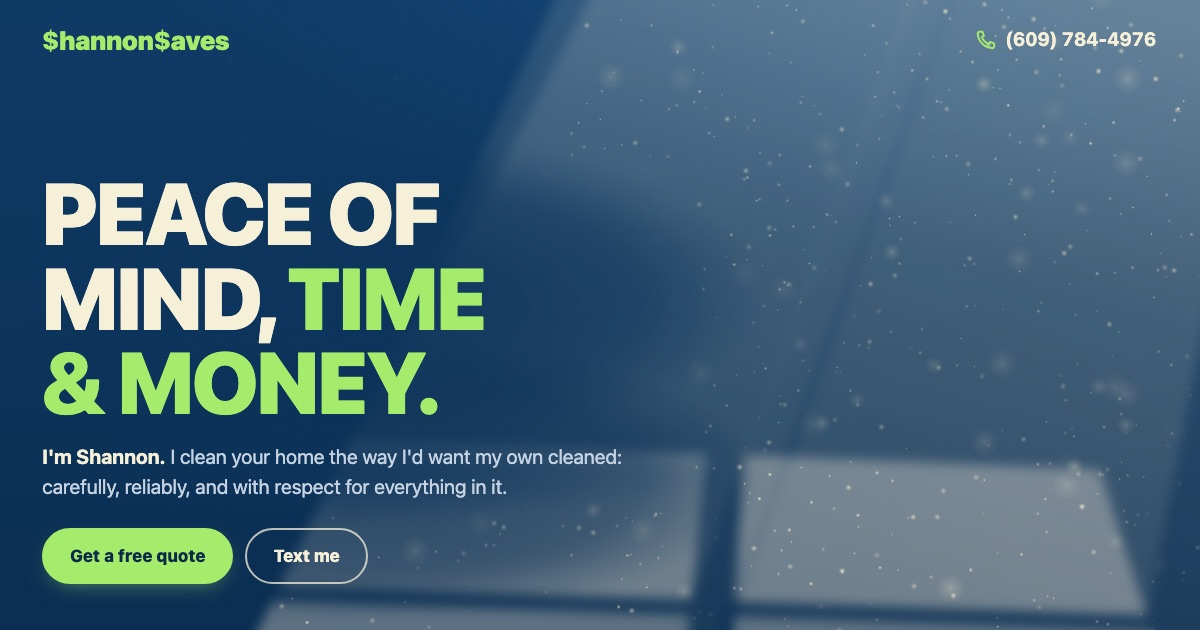
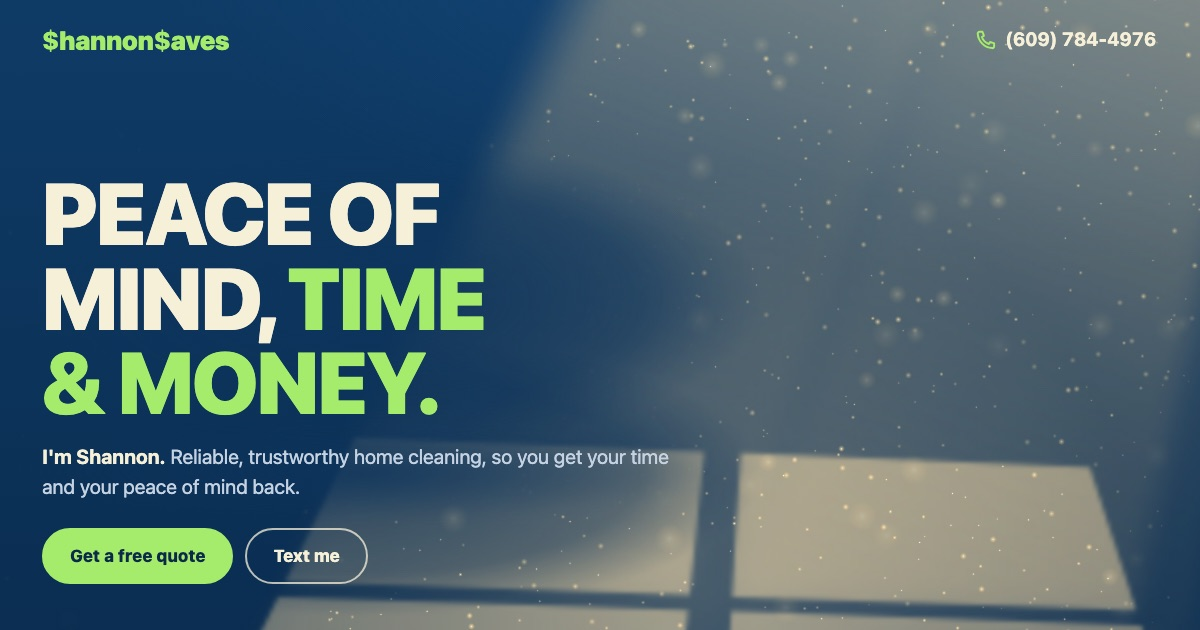
Warm the sunlight, keep light off text, tighten copy, two-column desktop quote
Claude-Session: https://claude.ai/code/session_01KdEZpRZJ6UdA7YLzZHcZCQ

diff --git a/index.html b/index.html
@@ -67,6 +67,7 @@ p { margin: 0; text-wrap: pretty; }
 .mark {
   font-weight: 900; font-size: 22px; letter-spacing: -.01em; color: var(--lime);
   text-decoration: none; white-space: nowrap; line-height: 1;
+  display: inline-flex; align-items: center; min-height: 44px;
 }
 .mark .d { font-weight: 800; }
 .tel {
@@ -80,10 +81,11 @@ p { margin: 0; text-wrap: pretty; }
 
 /* ---------- Rooms (navy sections with the sunbeam) ---------- */
 .room {
-  position: relative; overflow: hidden; color: var(--cream); background-color: var(--navy);
+  position: relative; overflow: hidden; color: var(--cream);
   background:
     radial-gradient(120% 80% at 85% -10%, #164a7c 0%, rgba(22,74,124,0) 60%),
     linear-gradient(180deg, var(--navy) 0%, var(--navy-deep) 100%);
+  background-color: var(--navy);
 }
 /* static stand-in for the beam until the canvas paints */
 .room::before {
@@ -93,7 +95,7 @@ p { margin: 0; text-wrap: pretty; }
 }
 .room.lit::before { opacity: 0; }
 .room canvas { position: absolute; inset: 0; width: 100%; height: 100%; pointer-events: none; }
-.room canvas.beam { filter: blur(5px); transform: scale(1.04); }
+.room canvas.beam { filter: blur(1.5px); transform: scale(1.02); }
 .room > .wrap { position: relative; z-index: 2; }
 
 /* ---------- Hero ---------- */
@@ -126,7 +128,7 @@ p { margin: 0; text-wrap: pretty; }
   -webkit-tap-highlight-color: transparent;
 }
 .btn:active { transform: translateY(1px) scale(.99); }
-.btn-lime { background: var(--lime); border-color: var(--lime); color: var(--navy-ink); box-shadow: 0 8px 22px -10px rgba(166,236,108,.55); }
+.btn-lime { background: var(--lime); border-color: var(--lime); color: var(--navy-ink); }
 .btn-lime:hover { background: var(--lime-hi); border-color: var(--lime-hi); }
 .btn-line { background: transparent; border-color: rgba(247,240,217,.75); color: var(--cream); }
 .btn-line:hover { background: rgba(247,240,217,.1); border-color: var(--cream); }
@@ -226,7 +228,7 @@ fieldset { border: 0; margin: 0; padding: 0; min-width: 0; }
 .form-end .btn { width: 100%; }
 .form-end .btn:hover, .form-end .btn:focus-visible { outline: 3px solid var(--focus); outline-offset: 3px; }
 .hint { color: var(--muted-on-cream); font-size: 15px; }
-.talk { font-weight: 700; color: var(--navy); }
+.talk { font-weight: 700; color: var(--navy); display: inline-flex; align-items: center; min-height: 44px; }
 .sent { display: none; margin-top: 4px; padding: 18px; border-radius: var(--radius); background: #fff; border: 2px solid var(--line); max-width: 760px; }
 .sent.on { display: grid; gap: 12px; }
 .sent pre { margin: 0; white-space: pre-wrap; font: 400 16px/1.5 var(--font); color: var(--navy-ink); }
@@ -239,7 +241,7 @@ fieldset { border: 0; margin: 0; padding: 0; min-width: 0; }
 .close .h2 .l { color: var(--lime); }
 .close .actions { justify-content: center; margin-top: 28px; }
 .foot { margin-top: 80px; padding: 30px 0 calc(34px + env(safe-area-inset-bottom)); border-top: 1px solid rgba(247,240,217,.16); display: grid; gap: 16px; text-align: left; }
-.foot .mark { font-size: 24px; color: var(--lime); min-height: 0; }
+.foot .mark { font-size: 24px; color: var(--lime); }
 .foot .tag { color: var(--muted-on-navy); margin-top: 6px; }
 .foot ul { list-style: none; margin: 0; padding: 0; display: grid; gap: 4px; }
 .foot a { display: inline-flex; align-items: center; gap: 10px; min-height: 44px; color: var(--cream); text-decoration: none; font-weight: 600; }
@@ -264,6 +266,9 @@ fieldset { border: 0; margin: 0; padding: 0; min-width: 0; }
   .meet { padding: 120px 0; }
   .meet .inner { grid-template-columns: auto 1fr; gap: 64px; align-items: center; }
   .portrait { width: 240px; height: 240px; }
+  .quote .wrap { display: grid; grid-template-columns: minmax(0, 1fr) minmax(0, 1.75fr); gap: 72px; align-items: start; }
+  .quote form { margin-top: 0; }
+  .quote-head { position: sticky; top: 40px; }
   form { grid-template-columns: 1fr 1fr; column-gap: 22px; }
   form .full { grid-column: 1 / -1; }
   .close { padding-top: 130px; }
@@ -283,6 +288,7 @@ STORY: Dust drifts in the sunbeam -> you wave through it and wipe it out of the 
   (that is why bi-weekly upkeep exists) -> meet Shannon in the same light -> ask for the free quote.
 FIRST VIEWPORT (phone): wordmark + tap-to-call number top right; headline in her own words; one promise line;
   Get a free quote + Text me; the lit patch of the beam with the densest dust under the buttons, touchable.
+CONCEPT ROLL: skipped (unattended pitch-site build; no seed key). Runner-up world in HANDOFF.md.
 FORM: navy "rooms" (hero, meet, close) carry the sunbeam and dust; cream "clean rooms" (services, quote) are dust-free.
   System sans, 900 uppercase display, sentence-case body. Lime only on navy; navy and blue focus on cream.
 -->
@@ -303,7 +309,7 @@ FORM: navy "rooms" (hero, meet, close) carry the sunbeam and dust; cream "clean 
     <div class="wrap">
       <div class="hero-copy">
         <h1 class="display clear" data-clear>Peace of mind, <span class="l">time &amp; money.</span></h1>
-        <p class="promise clear" data-clear><strong>I'm Shannon.</strong> I clean your home the way I'd want my own cleaned: carefully, reliably, and with respect for everything in it.</p>
+        <p class="promise clear" data-clear><strong>I'm Shannon.</strong> Reliable, trustworthy home cleaning, so you get your time and your peace of mind back.</p>
         <div class="actions">
           <a class="btn btn-lime" href="#quote">Get a free quote</a>
           <a class="btn btn-line sms" href="sms:+16097844976?&amp;body=Hi%20Shannon!%20I'd%20like%20a%20free%20quote%20for%20home%20cleaning." data-body="Hi Shannon! I'd like a free quote for home cleaning.">Text me</a>
@@ -326,8 +332,8 @@ FORM: navy "rooms" (hero, meet, close) carry the sunbeam and dust; cream "clean 
       <div>
         <h2 class="display h2">How it works</h2>
         <ol class="steps">
-          <li><div><h3>Tell me about your home.</h3><p>A text or the form below is all it takes.</p></div></li>
-          <li><div><h3>Get your free quote.</h3><p>I'll get back to you with a price before anything is booked.</p></div></li>
+          <li><div><h3>Tell me about your home.</h3><p>No pressure. A text or the form below is plenty.</p></div></li>
+          <li><div><h3>Get your free quote.</h3><p>You'll know the price before I ever come over.</p></div></li>
           <li><div><h3>Come home to clean.</h3><p>One deep clean, or every other week to keep it that way.</p></div></li>
         </ol>
       </div>
@@ -341,7 +347,7 @@ FORM: navy "rooms" (hero, meet, close) carry the sunbeam and dust; cream "clean 
[1 lines of base64/hex data omitted]
       <div class="clear" data-clear>
         <h2 class="display h2">Hi, I'm Shannon.</h2>
-        <p>When you let me into your home, I treat it like it's mine. I show up when I say I will, I take care with your things, and I leave every room the way you'd want to find it.</p>
+        <p>When you let me into your home, you're trusting me with it. I show up when I say I will, I take care with your things, and I leave every room the way you'd want to find it.</p>
         <a class="fb" href="https://facebook.com/profile.php?id=100000648862291">
           <svg class="icon" viewBox="0 0 24 24" fill="currentColor" aria-hidden="true"><path d="M13.5 21v-7.6h2.6l.4-3h-3V8.5c0-.9.3-1.5 1.5-1.5h1.6V4.3c-.3 0-1.2-.1-2.3-.1-2.3 0-3.9 1.4-3.9 4v2.2H8v3h2.4V21h3.1z"/></svg>
           Find me on Facebook
@@ -352,8 +358,11 @@ FORM: navy "rooms" (hero, meet, close) carry the sunbeam and dust; cream "clean 
 
   <section class="cream section quote" id="quote">
     <div class="wrap">
-      <h2 class="display h2">Free quote</h2>
-      <p class="lede">Tell me a little about your home and I'll text you back with a quote.</p>
+      <div class="quote-head">
+        <h2 class="display h2">Free quote</h2>
+        <p class="lede">Tell me a little about your home and I'll get back to you with a quote.</p>
+      </div>
+      <div class="quote-body">
       <form id="qform" novalidate>
         <div class="field" id="f-name">
           <label for="name">Your name</label>
@@ -363,7 +372,7 @@ FORM: navy "rooms" (hero, meet, close) carry the sunbeam and dust; cream "clean 
         <div class="field" id="f-town">
           <label for="town">Your town</label>
           <input id="town" name="town" type="text" autocomplete="address-level2" required>
-          <span class="err" id="town-err">Please add your town so I can quote the trip.</span>
+          <span class="err" id="town-err">Please add your town so I know where you are.</span>
         </div>
         <fieldset class="full" id="f-svc">
           <legend>What would you like?</legend>
@@ -396,6 +405,7 @@ FORM: navy "rooms" (hero, meet, close) carry the sunbeam and dust; cream "clean 
         <p><strong>If your texting app didn't open,</strong> copy this and text it to (609) 784-4976:</p>
         <pre id="msg"></pre>
         <button class="btn copy" type="button" id="copy">Copy message</button>
+      </div>
       </div>
     </div>
   </section>
@@ -454,11 +464,11 @@ var BEAMS = {
   },
   meet: {
     phone: { win: [[-.30,-.40],[.40,-.46],[.42,-.12],[-.30,-.08]], floor: [[.20,.80],[1.10,.74],[1.20,1.10],[.18,1.16]] },
-    desk:  { win: [[-.20,-.60],[.22,-.66],[.24,-.20],[-.20,-.16]], floor: [[.46,.70],[1.02,.62],[1.10,1.12],[.50,1.18]] }
+    desk:  { win: [[.30,-.70],[.66,-.76],[.68,-.30],[.30,-.26]], floor: [[.66,.66],[1.08,.60],[1.14,1.12],[.70,1.18]] }
   },
   close: {
-    phone: { win: [[.10,-.30],[.90,-.30],[.92,-.08],[.08,-.08]], floor: [[-.10,.66],[1.10,.66],[1.30,1.00],[-.30,1.00]] },
-    desk:  { win: [[.30,-.40],[.70,-.40],[.71,-.10],[.29,-.10]], floor: [[.12,.70],[.88,.70],[1.00,1.10],[0,1.10]] }
+    phone: { win: [[.40,-.30],[1.10,-.26],[1.10,-.10],[.40,-.14]], floor: [[.30,.02],[1.02,.03],[1.08,.17],[.24,.16]] },
+    desk:  { win: [[.70,-.50],[1.05,-.46],[1.06,-.16],[.70,-.20]], floor: [[.62,.38],[1.00,.40],[1.08,.66],[.58,.64]] }
   }
 };
 
@@ -480,9 +490,9 @@ var BEAMS = {
     var s = Math.ceil(r * 2 + blur * 4 + 2), c = document.createElement('canvas');
     c.width = c.height = s;
     var g = c.getContext('2d'), m = s / 2, gr = g.createRadialGradient(m, m, 0, m, m, r + blur * 2);
-    gr.addColorStop(0, 'rgba(255,247,222,' + a + ')');
-    gr.addColorStop(blur ? .35 : .45, 'rgba(255,240,205,' + a * .55 + ')');
-    gr.addColorStop(1, 'rgba(255,236,196,0)');
+    gr.addColorStop(0, 'rgba(255,244,214,' + a + ')');
+    gr.addColorStop(blur ? .35 : .45, 'rgba(255,222,160,' + a * .6 + ')');
+    gr.addColorStop(1, 'rgba(255,214,150,0)');
     g.fillStyle = gr; g.fillRect(0, 0, s, s);
     return c;
   }
@@ -542,17 +552,24 @@ var BEAMS = {
       var fp = pts.map(function (p) { return bil(floor, p[0], p[1]); });
       var hl = hull(wp.concat(fp));
       var gr = g.createLinearGradient(wc[0], wc[1], fc[0], fc[1]);
-      gr.addColorStop(0, 'rgba(255,246,226,.24)');
-      gr.addColorStop(.55, 'rgba(255,244,222,.12)');
-      gr.addColorStop(1, 'rgba(255,242,216,.07)');
+      gr.addColorStop(0, 'rgba(255,218,158,.30)');
+      gr.addColorStop(.6, 'rgba(255,214,150,.13)');
+      gr.addColorStop(1, 'rgba(255,212,146,.05)');
+      // shaft through the air: soft-edged; the patch on the floor stays crisp (direct sun)
+      g.filter = 'blur(' + Math.max(2, bw / 90).toFixed(1) + 'px)';
       g.fillStyle = gr; g.beginPath();
       hl.forEach(function (p, k) { k ? g.lineTo(p[0], p[1]) : g.moveTo(p[0], p[1]); });
       g.closePath(); g.fill();
-      // where it lands: a brighter pane of light
-      g.fillStyle = 'rgba(255,246,228,.30)'; g.beginPath();
+      g.filter = 'none';
+      g.fillStyle = 'rgba(255,224,170,.42)'; g.beginPath();
       fp.forEach(function (p, k) { k ? g.lineTo(p[0], p[1]) : g.moveTo(p[0], p[1]); });
       g.closePath(); g.fill();
     }
+    // hot core where the sun lands
+    var fr = Math.hypot(floor[1][0] - floor[0][0], floor[1][1] - floor[0][1]) * .6;
+    var core = g.createRadialGradient(fc[0], fc[1], 0, fc[0], fc[1], fr);
+    core.addColorStop(0, 'rgba(255,236,196,.22)'); core.addColorStop(1, 'rgba(255,236,196,0)');
+    g.fillStyle = core; g.fillRect(fc[0] - fr, fc[1] - fr, fr * 2, fr * 2);
     g.globalCompositeOperation = 'source-over';
     // keep the light out from behind text
     var rect = this.el.getBoundingClientRect();

diff --git a/HANDOFF.md b/HANDOFF.md
@@ -1,0 +1,42 @@
+# ShannonSaves — handoff at ~60%
+
+**Live:** https://10elizabethbell.github.io/shannonSaves/ · **Repo:** https://github.com/10elizabethbell/shannonSaves · **Built:** 2026-10-19 from Muse brief 2026-10-19 (Burlington County NJ group post, 2026-10-18)
+
+## What's built
+- One page, `index.html` (single file, ~65 KB including her portrait), phone first: header ($hannon$aves wordmark + `(609) 784-4976` tap-to-call top right) → hero → What I do + How it works → Hi, I'm Shannon (portrait, Facebook link) → Free quote form → close + footer.
+- **World: afternoon sun in a clean room.** Her flyer's navy is the room, its cream ring is the window light, its lime is the lettering and buttons, its pale dots became dust motes. Navy "rooms" (hero, meet, close) carry the light; cream sections are the dust-free clean rooms.
+- **Signature element:** a soft shaft of window light (four panes with the cross-bar shadow, landing as a bright window shape at the bottom of the hero) with dust drifting in it. Motes only light up inside the beam, like real dust. Finger or mouse stirs the air (a small fluid grid, so swirls trail and spread) and wipes the motes it passes out of the light; they drift back in over time (`DUST.REGROW`). With no input for 4.5s the room's own breeze wanders through it. The light slowly dims and brightens as if clouds pass. Text sits in a cleared pool; the beam is cut out behind it. All tunables are in `DUST` and `BEAMS` at the top of the script.
+- **Contact:** header number is `tel:`. "Text me" and the close button open a text with a greeting. Each service row opens a text naming the service (on a computer it jumps to the form with that service ticked). The form (name, town, services required; home size, days, notes optional) composes one text to her, with a copy fallback and a "Rather talk? Call" link. Email is in the footer only.
+- Favicon / home-screen icon: a lime `$` on navy, from her flyer's lettering (no logo file exists). `og.jpg` 1200x630 for the Facebook link preview.
+
+## Assumptions I made
+- **Shannon is the owner and works alone** → "I" voice. Inferred from the business name, her portrait on the flyer and the post coming from her profile. Brief says relationship unconfirmed.
+- **Her portrait is used** (cropped from her own flyer, not upscaled: 254px source shown at 176/240px, so slightly soft on 3x phones). She put it on her public ad; still confirm she's happy with it on the site.
+- **Headline "Peace of mind, time & money."** is her tagline. The promise line ("I clean your home the way I'd want my own cleaned: carefully, reliably, and with respect for everything in it.") and the meet-section paragraph are mine, built from her words "reliable and trustworthy". Confirm they sound like her.
+- **How it works** steps ("I'll get back to you with a price before anything is booked") are inferred from "Free Quote".
+- **Texting:** brief says texts are unknown. Text is the main handoff, so the header `tel:` link and the form's "Rather talk? Call" cover callers. Confirm her number takes texts.
+- **Colors** sampled from the flyer: navy `#0e3b66`, lime `#a6ec6c`, cream `#f7f0d9`. Form focus is blue `#2b78d8` (lime doesn't show on cream).
+- **Name casing:** "ShannonSaves", drawn as $hannon$aves like the flyer; screen readers hear "ShannonSaves".
+
+## Placeholders and gaps
+- No service area on the page (brief: don't publish one). The form asks the customer's town instead.
+- No work photos, before/afters, reviews, prices, hours or years in business; the page says nothing about them.
+- Facebook link goes to her personal profile (no business page exists).
+
+## Questions for the owner
+- Spelling: ShannonSaves, one word? OK to show the $ lettering?
+- Does (609) 784-4976 take texts?
+- Which towns does she cover? Hours?
+- Any photos of homes she's cleaned or organized (before/after especially)? Any reviews from customers she could share?
+- Does she want a business Facebook page linked instead of her personal one?
+- Any first-time or recurring-customer offer?
+
+## Ideas not built (yours to pick)
+- **Runner-up world: the kitchen sink.** Lime dish-soap suds over warm water at the bottom of the hero, bubbles you swirl and pop. Close to Blessed's foam, which is why it lost.
+- A visible microfiber cloth or feather duster following the finger, so wiping the dust reads even faster.
+- Animated seams between navy and cream sections (e.g. the edge of the light spilling over the boundary).
+- Before/after slider once she has photo pairs; a reviews strip once she has reviews.
+- A "Bi-weekly" explainer (what's included each visit) if she shares a checklist.
+
+## Not verified
+- Real-device touch (simulated touch sweeps in headless Chrome wiped 60 of 420 motes in 2s; mouse 44), the SMS handoff on real iOS/Android, frame rate on old phones, Facebook in-app browser specifically.
